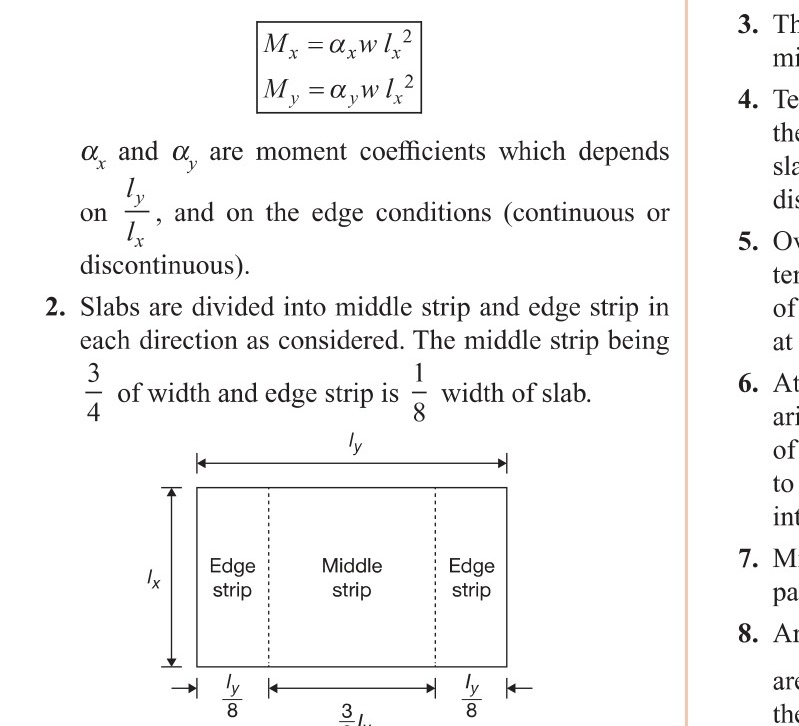
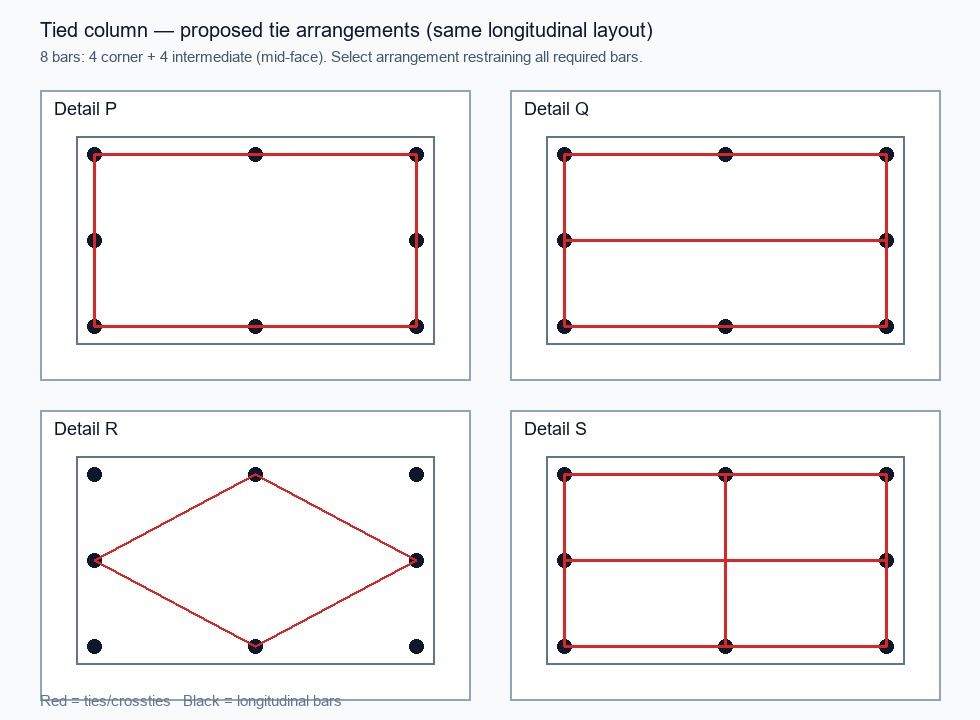
Fix Civil Q21 column-tie figure mismatch.
Replace the slab-strip crop with a P–S tied-column schematic so Detail S matches the stem and key.

diff --git a/data/civil/ce-flt01.js b/data/civil/ce-flt01.js
@@ -469,11 +469,11 @@ export const questions = [
     "difficulty": "Easy",
     "questionType": "Diagram+Conceptual",
     "formula": "",
-    "explanation": "CORRECT: Detail S\n\nWHY CORRECT / CALCULATION:\nWhy: Detail S provides closed ties/crossties restraining every required longitudinal bar. Trap: P–R leave an intermediate bar inadequately restrained.\n\nTOPIC HIGH-YIELD:\n• APTRANSCO AEE Civil — RCC: column ties+diagram+detailing",
+    "explanation": "CORRECT: Detail S\n\nWHY CORRECT / CALCULATION:\nWhy: Detail S uses a closed perimeter tie plus both crossties so every corner and mid-face bar is restrained. Trap: P is perimeter-only; Q omits a crosstie direction; R’s diamond leaves corners unrestrained.\n\nTOPIC HIGH-YIELD:\n• APTRANSCO AEE Civil — RCC: column ties+diagram+detailing",
     "source": "CIVIL_FLT01_AUDITQ_APPROVED_v1",
     "origin": "Diagram-Core/Family",
-    "diagramSource": "core",
-    "diagramSourcePath": "civil-core-diagrams/DDRC/DDRC_pg0037.jpg"
+    "diagramSource": "schematic-family",
+    "diagramSourcePath": "schematic-family/column-ties-P-S (DDRC core has no column-tie page; slab page was incorrect)"
   },
   {
     "id": 22,

diff --git a/index.html b/index.html
@@ -4,9 +4,9 @@
     <meta charset="UTF-8" />
     <meta name="viewport" content="width=device-width, initial-scale=1.0" />
     <title>APTRANSCO CBT Portal</title>
-    <link rel="stylesheet" href="css/style.css?v=20260804aaa" />
-    <link rel="stylesheet" href="css/exam.css?v=20260804aaa" />
-    <link rel="stylesheet" href="css/responsive.css?v=20260804aaa" />
+    <link rel="stylesheet" href="css/style.css?v=20260804ab" />
+    <link rel="stylesheet" href="css/exam.css?v=20260804ab" />
+    <link rel="stylesheet" href="css/responsive.css?v=20260804ab" />
 </head>
 <body>
     <main class="page-shell">
@@ -241,6 +241,6 @@
         </section>
     </main>
 
-    <script type="module" src="js/app.js?v=20260804aaa"></script>
+    <script type="module" src="js/app.js?v=20260804ab"></script>
 </body>
 </html>
